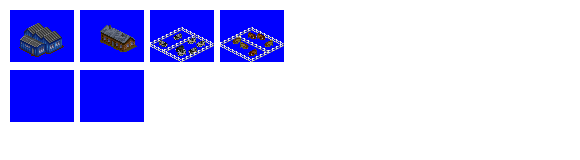
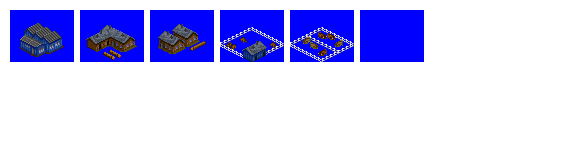
Change: improved appearance for Herding Co-op

Changed region(s): [[0.2483, 0.0625, 0.7448, 0.4062], [0.0, 0.4375, 0.2483, 0.7812], [0.1241, 0.1875, 0.2172, 0.375]]

diff --git a/src/industries/herding_coop.py b/src/industries/herding_coop.py
@@ -33,43 +33,72 @@ spriteset_ground_overlay = industry.add_spriteset(
 spriteset_1 = industry.add_spriteset(
     sprites = [(10, 10, 64, 52, -31, -21)],
 )
-spriteset_1_ground = industry.add_spriteset(
-    sprites = [(10, 70, 64, 52, -31, -21)],
-)
 spriteset_2 = industry.add_spriteset(
     sprites = [(80, 10, 64, 52, -31, -21)],
 )
-spriteset_2_ground = industry.add_spriteset(
-    sprites = [(80, 70, 64, 52, -31, -21)],
+spriteset_3 = industry.add_spriteset(
+    sprites = [(150, 10, 64, 52, -31, -21)],
+)
+spriteset_4 = industry.add_spriteset(
+    sprites = [(220, 10, 64, 52, -31, -21)],
+)
+spriteset_5 = industry.add_spriteset(
+    sprites = [(290, 10, 64, 52, -31, -21)],
+)
+spriteset_6 = industry.add_spriteset(
+    sprites = [(360, 10, 64, 52, -31, -21)],
 )
 
 industry.add_spritelayout(
-    id = 'herding_coop_spritelayout_1',
+    id = 'herding_coop_spritelayout_large_hut',
     ground_sprite = spriteset_ground,
-    ground_overlay = spriteset_1_ground,
+    ground_overlay = spriteset_ground_overlay,
     building_sprites = [spriteset_1],
     terrain_aware_ground = True
 )
 industry.add_spritelayout(
-    id = 'herding_coop_spritelayout_2',
+    id = 'herding_coop_spritelayout_brown_hut',
     ground_sprite = spriteset_ground,
-    ground_overlay = spriteset_2_ground,
+    ground_overlay = spriteset_ground_overlay,
     building_sprites = [spriteset_2],
     terrain_aware_ground = True
 )
 industry.add_spritelayout(
-    id = 'herding_coop_spritelayout_3',
+    id = 'herding_coop_spritelayout_two_brown_huts',
+    ground_sprite = spriteset_ground,
+    ground_overlay = spriteset_ground_overlay,
+    building_sprites = [spriteset_3],
+    terrain_aware_ground = True
+)
+industry.add_spritelayout(
+    id = 'herding_coop_spritelayout_paddock_1',
     ground_sprite = sprite_ground_mud,
     ground_overlay = sprite_ground_mud,
-    building_sprites = [],
+    building_sprites = [spriteset_4],
+    terrain_aware_ground = True
+)
+industry.add_spritelayout(
+    id = 'herding_coop_spritelayout_paddock_2',
+    ground_sprite = sprite_ground_mud,
+    ground_overlay = sprite_ground_mud,
+    building_sprites = [spriteset_5],
+    terrain_aware_ground = True
+)
+industry.add_spritelayout(
+    id = 'herding_coop_spritelayout_bare_ground',
+    ground_sprite = spriteset_ground,
+    ground_overlay = spriteset_ground_overlay,
+    building_sprites = [spriteset_6],
     terrain_aware_ground = True
 )
 
 industry.add_industry_layout(
     id = 'herding_coop_industry_layout_1',
-    layout = [(0, 1, 'herding_coop_tile_1', 'herding_coop_spritelayout_3'),
-              (0, 2, 'herding_coop_tile_1', 'herding_coop_spritelayout_1'),
-              (1, 0, 'herding_coop_tile_1', 'herding_coop_spritelayout_2'),
-              (1, 2, 'herding_coop_tile_1', 'herding_coop_spritelayout_2'),
+    layout = [(0, 0, 'herding_coop_tile_1', 'herding_coop_spritelayout_paddock_2'),
+              (0, 1, 'herding_coop_tile_1', 'herding_coop_spritelayout_paddock_1'),
+              (0, 2, 'herding_coop_tile_1', 'herding_coop_spritelayout_large_hut'),
+              (1, 0, 'herding_coop_tile_1', 'herding_coop_spritelayout_brown_hut'),
+              (1, 1, 'herding_coop_tile_1', 'herding_coop_spritelayout_two_brown_huts'),
+              (1, 2, 'herding_coop_tile_1', 'herding_coop_spritelayout_bare_ground'),
     ]
 )
